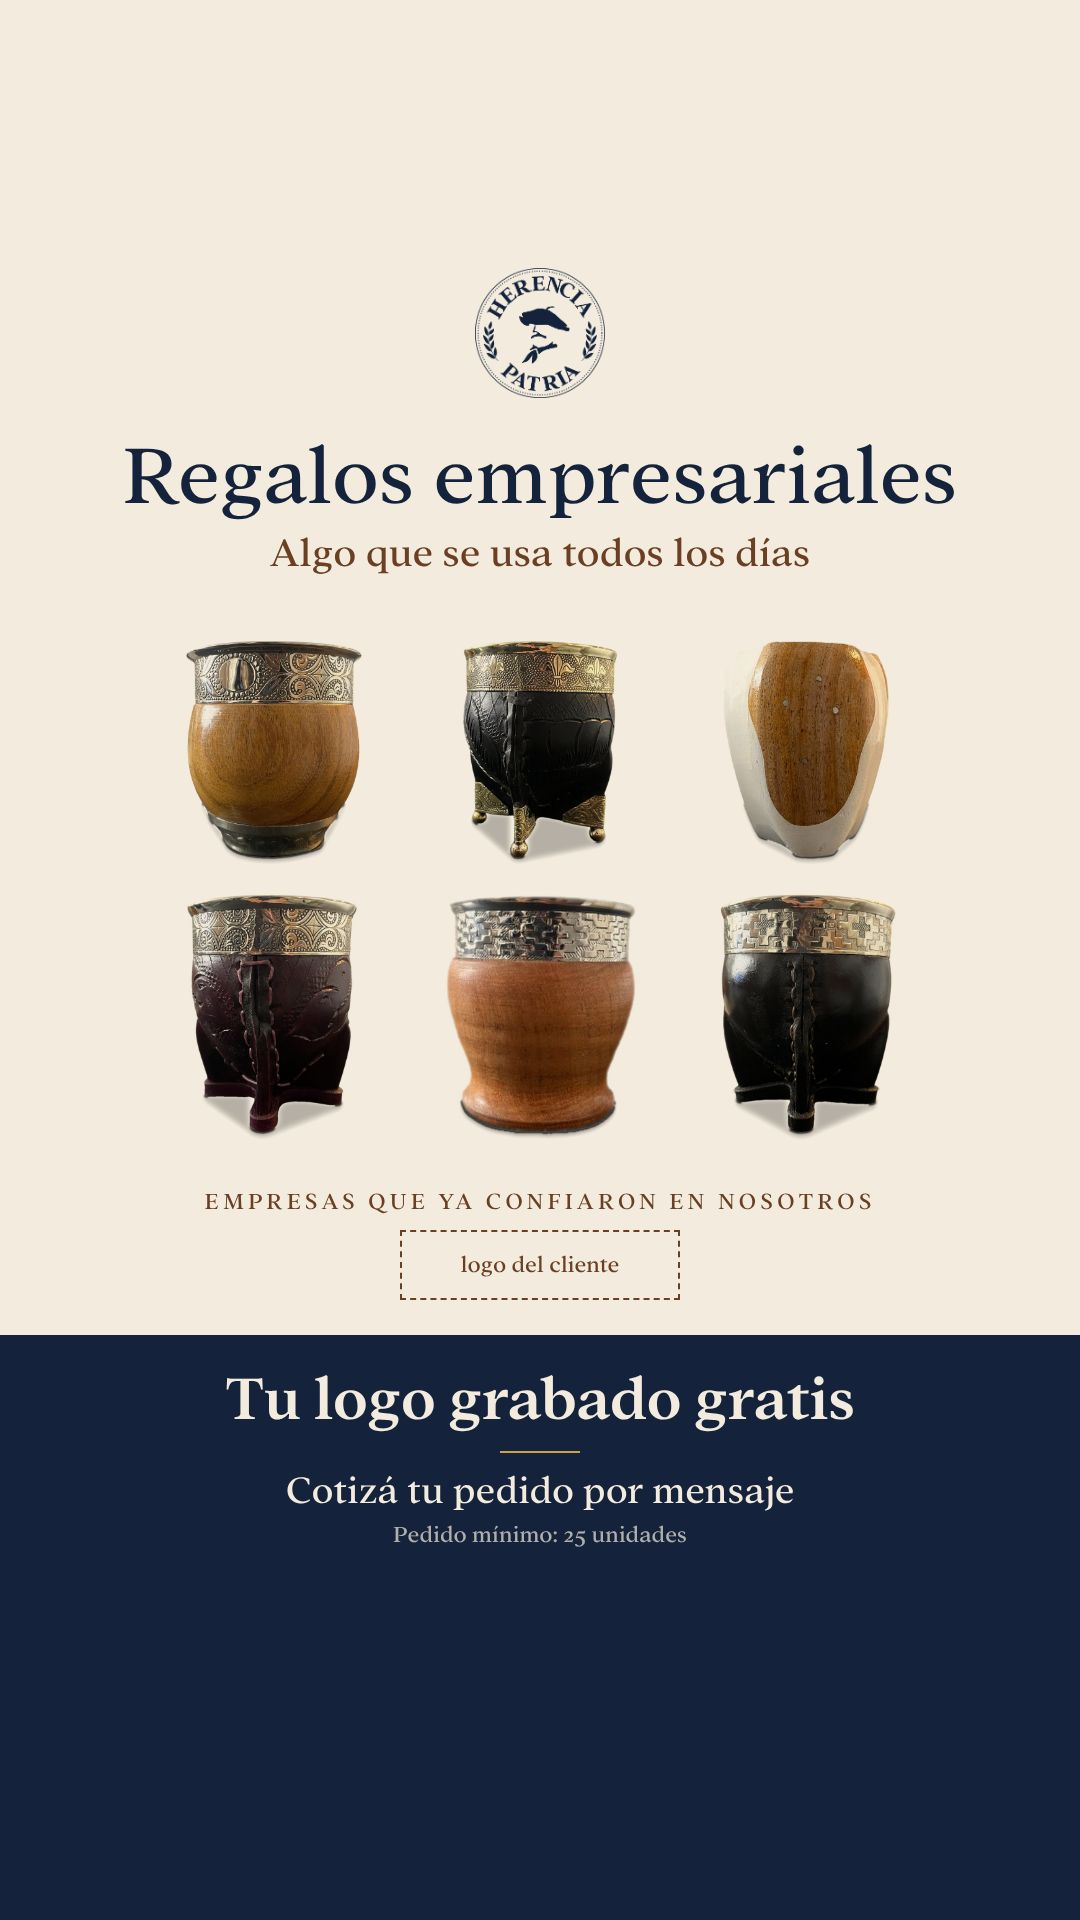
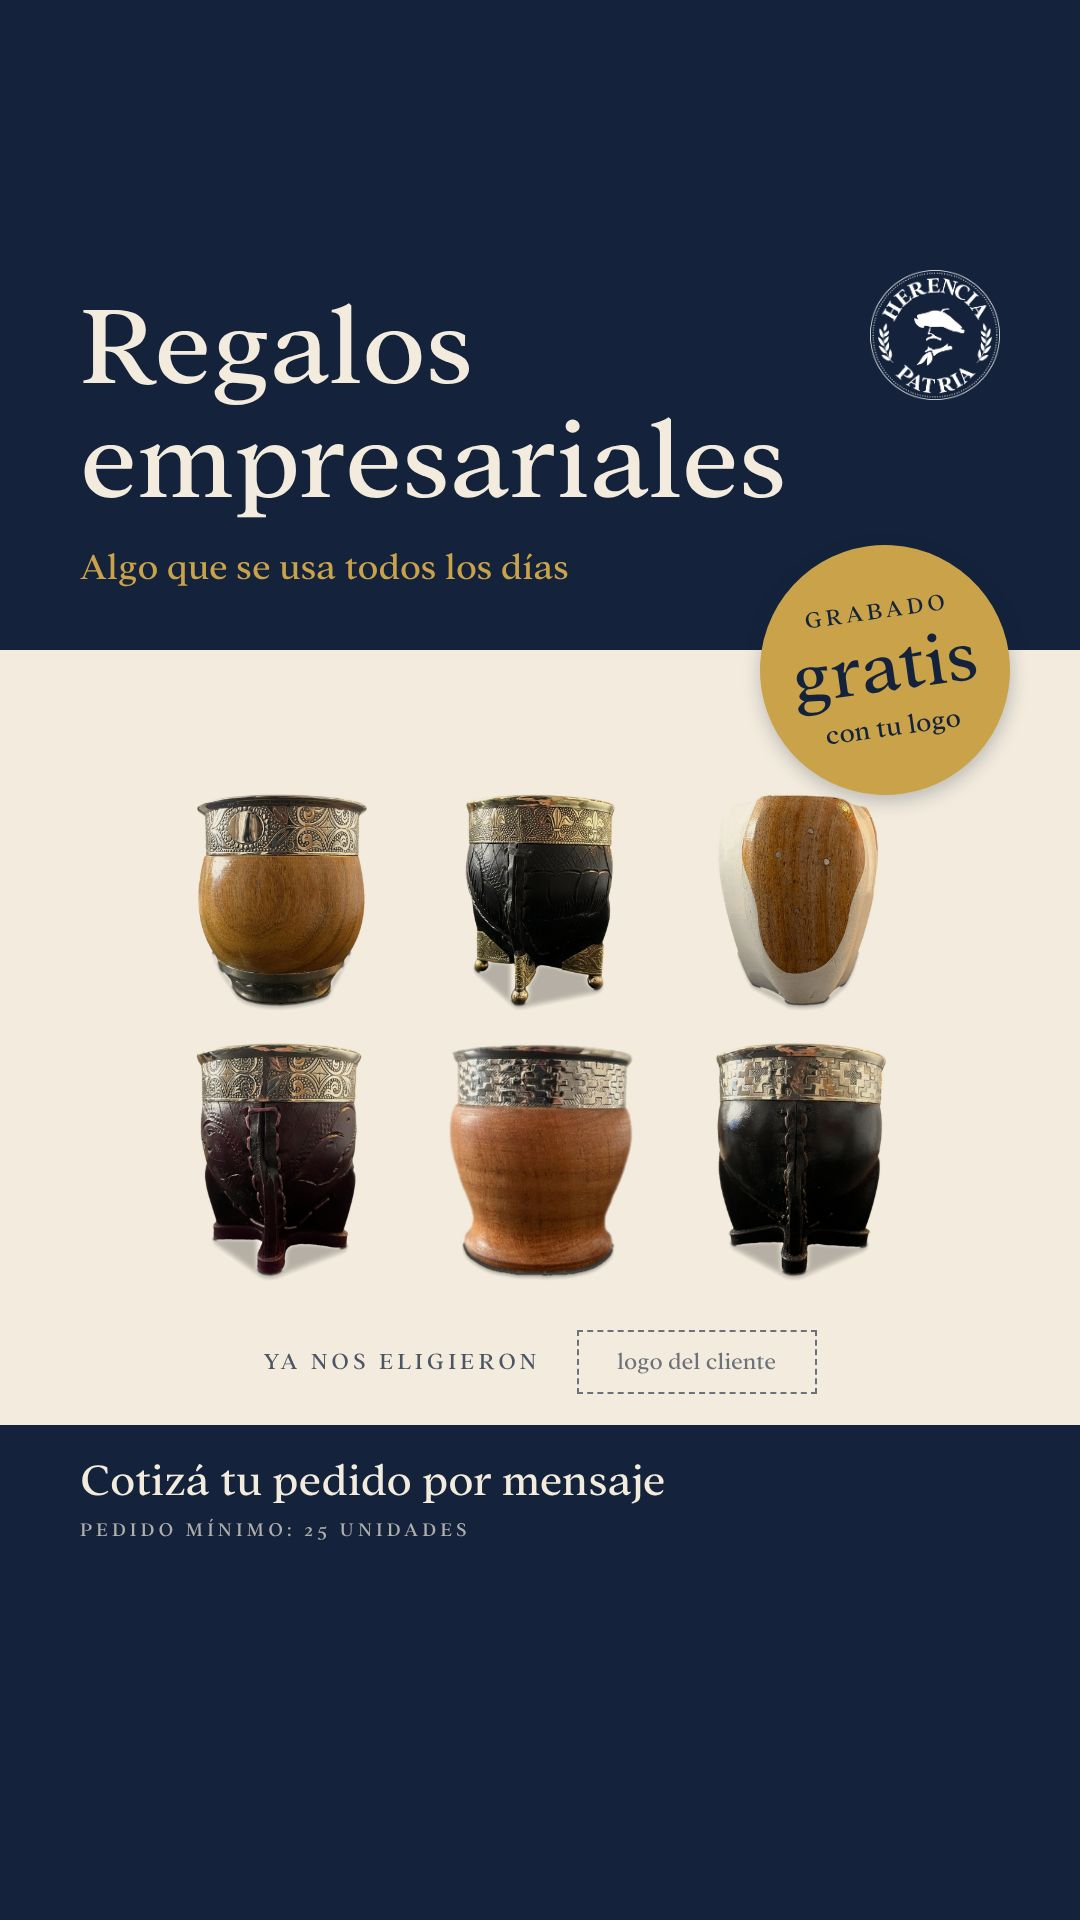
Historia empresarial: nuevo diseño en franjas azul, crema y azul
Título grande a la izquierda sobre azul, etiqueta dorada con el grabado
gratis, los mates sobre crema, prueba social y el llamado abajo en azul.
Sólo azul, crema y dorado, una sola familia de letra.

Claude-Session: https://claude.ai/code/session_012H3xPSmbqKoMmc2aK7okNH

diff --git a/src/HerenciaPatria/HistoriaEmpresas.tsx b/src/HerenciaPatria/HistoriaEmpresas.tsx
@@ -2,19 +2,24 @@ import { AbsoluteFill, Img, staticFile } from "remotion";
 import { colors, fonts } from "./brand";
 
 // Historia de Instagram (1080x1920) para los pedidos empresariales de fin
-// de año, pensada como anuncio: qué es (el título), los mates reales como
-// protagonistas, el beneficio (el grabado gratis) en un bloque azul hasta abajo,
-// quiénes ya los eligieron y un llamado corto, con la letra chica al pie. Una sola familia de
-// letra (Addington) para que no se vea recargada. En los anuncios de
-// historias Meta tapa ~250 px arriba y ~380 px abajo (su botón), así que todo
-// va entre 250 y 1540; el llamado es texto, no botón, porque el anuncio ya
-// trae el suyo.
+// de año, pensada como anuncio. Tres franjas: arriba, en azul, el título
+// grande alineado a la izquierda y el sello; al medio, en crema, los mates
+// reales (fotos de producto sobre blanco, que con "multiply" se funden con
+// el crema) y quiénes ya los eligieron; abajo, otra vez en azul, el llamado y
+// la letra chica. El beneficio (el grabado gratis) es una etiqueta dorada
+// entre la franja de arriba y los mates. Sólo azul, crema y dorado, y una
+// sola familia de letra. En los anuncios de historias Meta tapa ~250 px
+// arriba y ~380 px abajo (su botón): lo que hay que leer va entre 250 y
+// 1540, y las franjas azules llenan el resto.
+
+const margen = 80;
 
 export const HistoriaEmpresas: React.FC<{
   readonly mates: string[][];
-  readonly titulo: string;
+  readonly titulo: string[];
   readonly bajada: string;
-  readonly beneficio: string;
+  // La etiqueta: arriba (versalitas), grande y abajo.
+  readonly etiqueta: [string, string, string];
   // Prueba social: clientes que ya regalaron Herencia, con su logo (el
   // archivo oficial, con permiso del cliente). Sin archivo, un recuadro marca
   // el lugar: esa versión no es para publicar.
@@ -26,46 +31,103 @@ export const HistoriaEmpresas: React.FC<{
   mates,
   titulo,
   bajada,
-  beneficio,
+  etiqueta,
   confianza,
   logos,
   accion,
   letraChica,
 }) => {
+  const versalitas: React.CSSProperties = {
+    fontSize: 24,
+    letterSpacing: 4,
+    textTransform: "uppercase",
+  };
   return (
     <AbsoluteFill
       style={{
         backgroundColor: colors.crema,
-        alignItems: "center",
-        textAlign: "center",
         fontFamily: fonts.serif,
         color: colors.azul,
       }}
     >
-      <Img
-        src={staticFile("logos/herencia-patria-sello-azul.png")}
-        style={{ position: "absolute", top: 268, width: 130 }}
-      />
-      <div style={{ position: "absolute", top: 425, fontSize: 86 }}>
-        {titulo}
-      </div>
+      {/* Arriba: título y sello. */}
       <div
         style={{
           position: "absolute",
-          top: 528,
-          fontSize: 42,
-          color: colors.madera,
+          top: 0,
+          left: 0,
+          right: 0,
+          height: 650,
+          background: colors.azul,
+          color: colors.crema,
         }}
       >
-        {bajada}
+        <Img
+          src={staticFile("logo-herencia-patria.png")}
+          style={{
+            position: "absolute",
+            top: 270,
+            right: margen,
+            width: 130,
+          }}
+        />
+        <div
+          style={{
+            position: "absolute",
+            top: 290,
+            left: margen,
+            fontSize: 116,
+            lineHeight: 0.98,
+          }}
+        >
+          {titulo.map((l) => (
+            <div key={l}>{l}</div>
+          ))}
+        </div>
+        <div
+          style={{
+            position: "absolute",
+            top: 545,
+            left: margen,
+            fontSize: 38,
+            color: colors.mostaza,
+          }}
+        >
+          {bajada}
+        </div>
       </div>
-      {/* Dos filas de mates, la de atrás un poco más chica. */}
+      {/* El beneficio: una etiqueta redonda, inclinada, mitad sobre el azul. */}
+      <div
+        style={{
+          position: "absolute",
+          top: 545,
+          right: 70,
+          width: 250,
+          height: 250,
+          borderRadius: "50%",
+          background: colors.mostaza,
+          display: "flex",
+          flexDirection: "column",
+          alignItems: "center",
+          justifyContent: "center",
+          textAlign: "center",
+          transform: "rotate(-8deg)",
+          boxShadow: "0 6px 18px rgba(20,35,59,0.25)",
+        }}
+      >
+        <div style={versalitas}>{etiqueta[0]}</div>
+        <div style={{ fontSize: 76, lineHeight: 1, margin: "4px 0 6px" }}>
+          {etiqueta[1]}
+        </div>
+        <div style={{ fontSize: 28 }}>{etiqueta[2]}</div>
+      </div>
+      {/* Los mates: dos filas, la de atrás un poco más chica. */}
       {mates.map((fila, i) => (
         <div
           key={fila.join()}
           style={{
             position: "absolute",
-            top: i === 0 ? 600 : 850,
+            top: i === 0 ? 755 : 1000,
             left: 0,
             right: 0,
             display: "flex",
@@ -74,7 +136,7 @@ export const HistoriaEmpresas: React.FC<{
           }}
         >
           {fila.map((src) => {
-            const lado = i === 0 ? 310 : 340;
+            const lado = i === 0 ? 300 : 330;
             return (
               <Img
                 key={src}
@@ -91,78 +153,59 @@ export const HistoriaEmpresas: React.FC<{
           })}
         </div>
       ))}
+      {/* Quiénes ya los eligieron. */}
       <div
         style={{
           position: "absolute",
-          top: 1188,
-          fontSize: 24,
-          letterSpacing: 4,
-          textTransform: "uppercase",
-          color: colors.madera,
-        }}
-      >
-        {confianza}
-      </div>
-      <div
-        style={{
-          position: "absolute",
-          top: 1230,
-          height: 70,
+          top: 1330,
+          left: 0,
+          right: 0,
           display: "flex",
-          gap: 50,
+          justifyContent: "center",
           alignItems: "center",
+          gap: 36,
         }}
       >
+        <div style={{ ...versalitas, opacity: 0.75 }}>{confianza}</div>
         {logos.length > 0 ? (
           logos.map((l) => (
-            <Img key={l} src={staticFile(l)} style={{ height: 60 }} />
+            <Img key={l} src={staticFile(l)} style={{ height: 56 }} />
           ))
         ) : (
           <div
             style={{
-              width: 280,
-              height: 70,
-              border: `2px dashed ${colors.madera}`,
+              width: 240,
+              height: 64,
+              border: `2px dashed ${colors.azul}`,
               display: "flex",
               alignItems: "center",
               justifyContent: "center",
               fontSize: 24,
-              color: colors.madera,
+              opacity: 0.6,
             }}
           >
             logo del cliente
           </div>
         )}
       </div>
-      {/* Bloque azul hasta abajo: el beneficio, el llamado y la letra chica.
-          Llena el pie (donde en el anuncio va el botón de Meta) y no parece
-          un botón. */}
+      {/* Abajo: el llamado (texto, no botón: el anuncio trae el suyo). */}
       <div
         style={{
           position: "absolute",
-          top: 1335,
+          top: 1425,
           left: 0,
           right: 0,
           bottom: 0,
           background: colors.azul,
           color: colors.crema,
-          display: "flex",
-          flexDirection: "column",
-          alignItems: "center",
-          paddingTop: 26,
+          paddingTop: 28,
+          paddingLeft: margen,
         }}
       >
-        <div style={{ fontSize: 64, fontWeight: 600 }}>{beneficio}</div>
+        <div style={{ fontSize: 46 }}>{accion}</div>
         <div
-          style={{
-            marginTop: 14,
-            width: 80,
-            height: 2,
-            background: colors.mostaza,
-          }}
-        />
-        <div style={{ marginTop: 14, fontSize: 40 }}>{accion}</div>
-        <div style={{ marginTop: 6, fontSize: 24, opacity: 0.7 }}>
+          style={{ ...versalitas, fontSize: 20, marginTop: 10, opacity: 0.7 }}
+        >
           {letraChica}
         </div>
       </div>

diff --git a/src/Root.tsx b/src/Root.tsx
@@ -408,10 +408,10 @@ export const RemotionRoot: React.FC = () => {
               "producto/mate-negro-guarda-pampa.jpg",
             ],
           ],
-          titulo: "Regalos empresariales",
+          titulo: ["Regalos", "empresariales"],
           bajada: "Algo que se usa todos los días",
-          beneficio: "Tu logo grabado gratis",
-          confianza: "Empresas que ya confiaron en nosotros",
+          etiqueta: ["Grabado", "gratis", "con tu logo"],
+          confianza: "Ya nos eligieron",
           logos: [],
           accion: "Cotizá tu pedido por mensaje",
           letraChica: "Pedido mínimo: 25 unidades",
